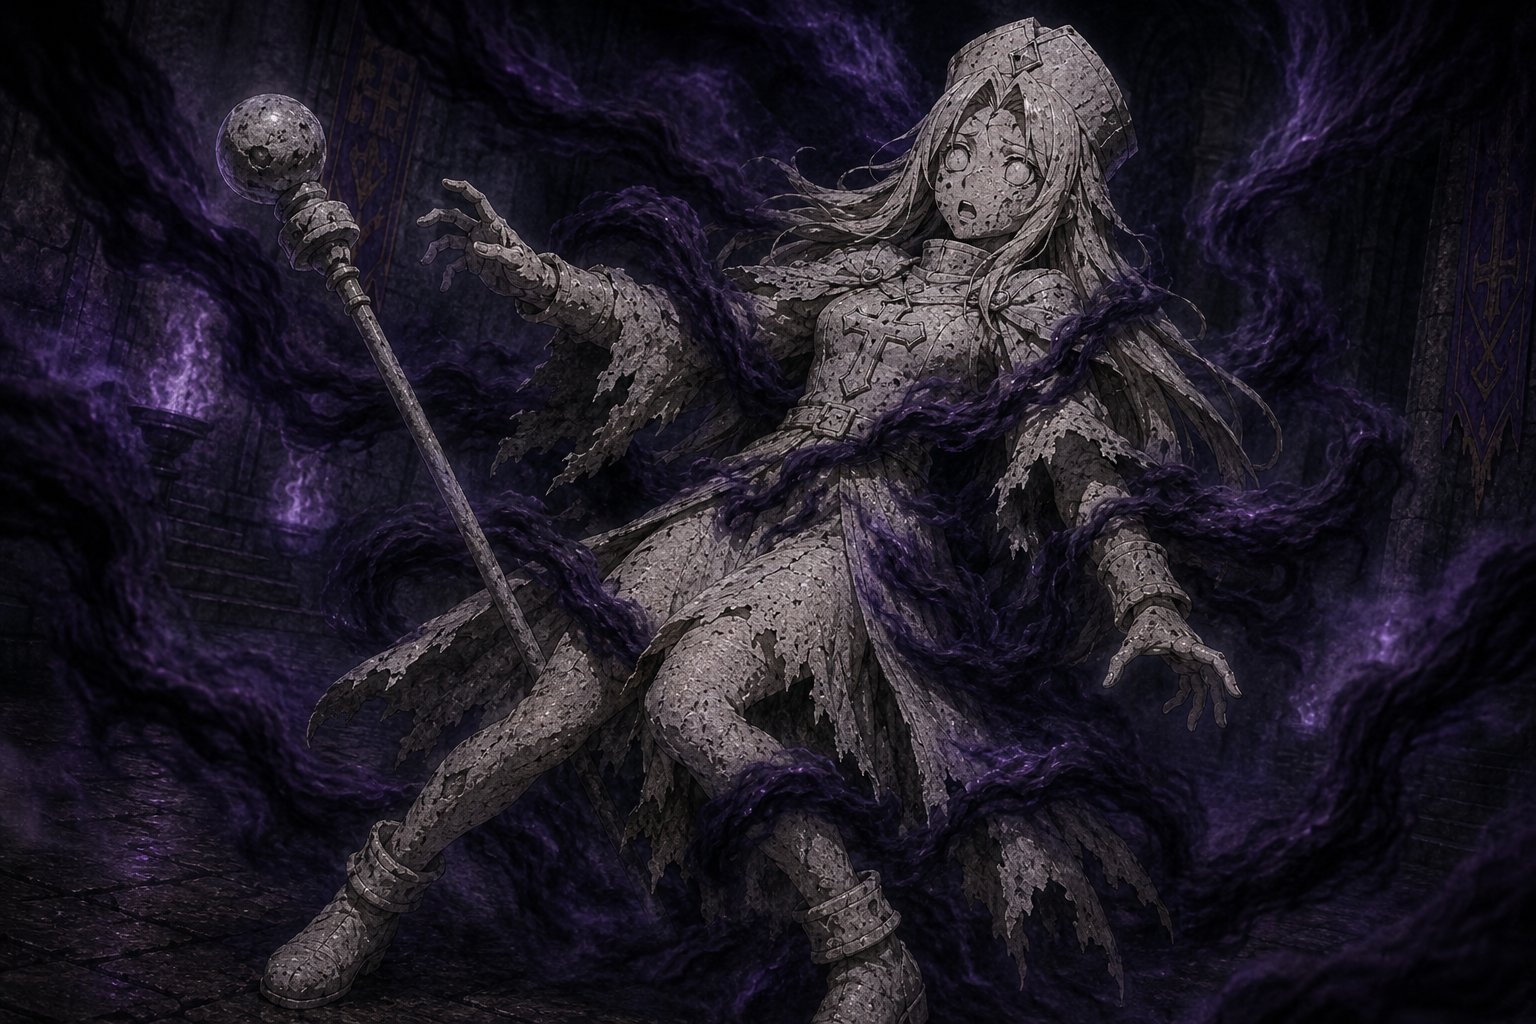
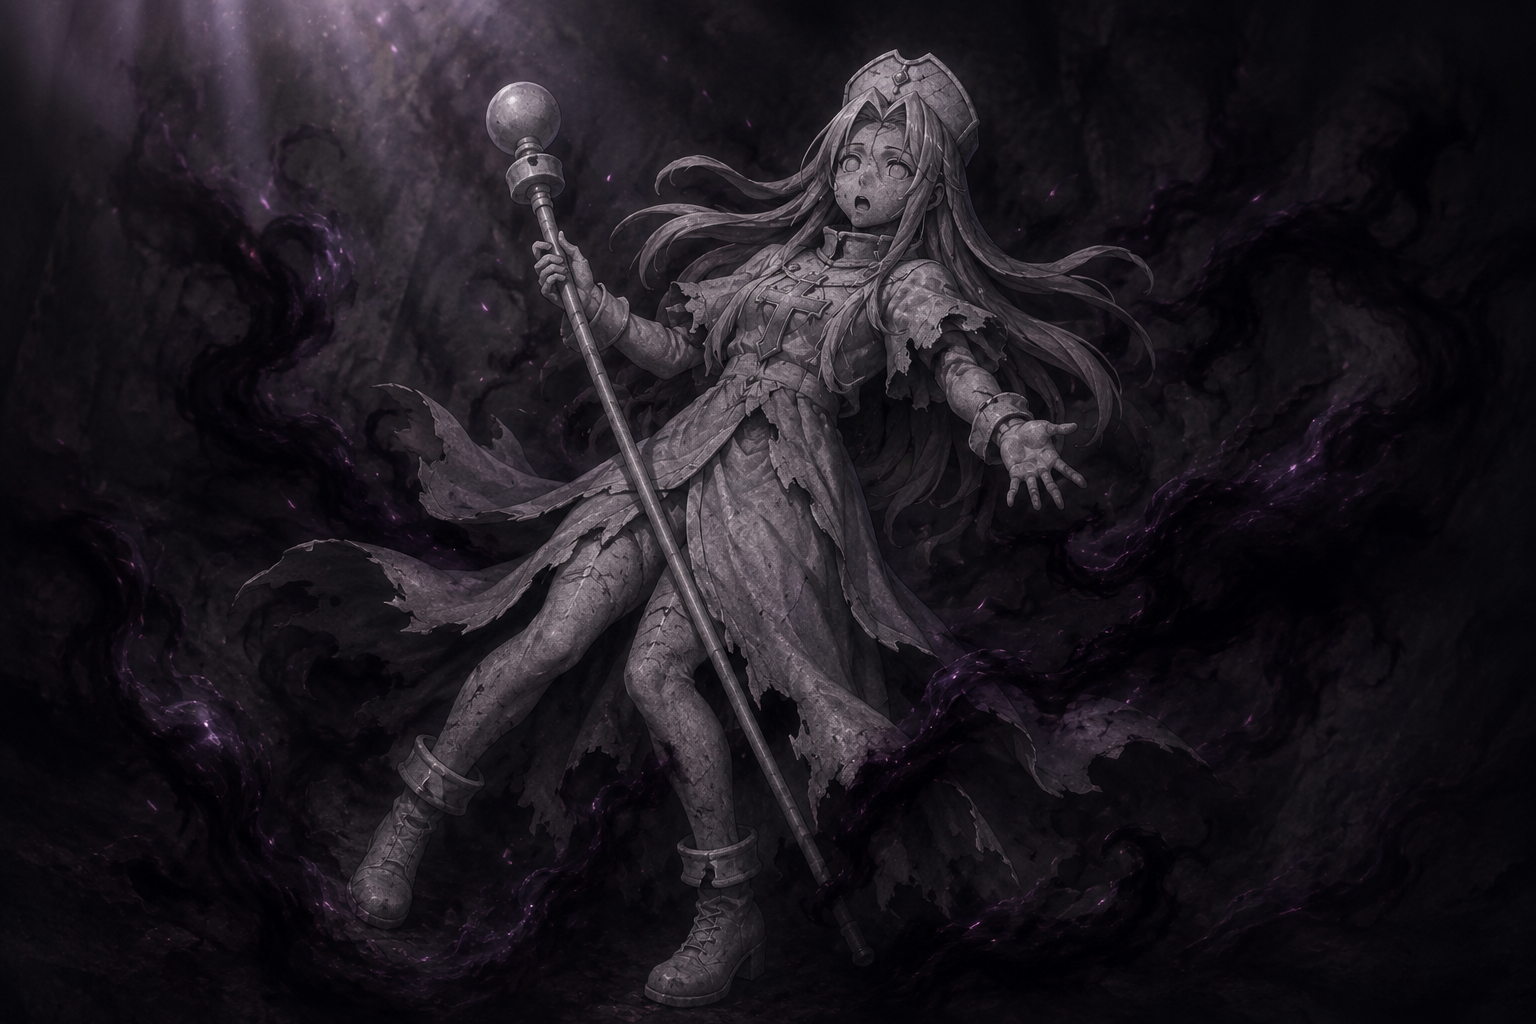
Tharja & Mint art; Obsidian Cap fix; dual-mode Mantle & Pact (#6)
* Mint and Tharja art update

* Fix Obsidian Cap; make Petrify Mantle and Stone Pact dual-mode

Obsidian Cap: hard cap now enforced inside gainPetrify() via
player.petrifyCap, so it applies to all sources at all times
(enemy attacks, status ticks, draw hooks) rather than only at
turn start.

Petrify Mantle: below threshold gains 5 Petrify + scaling Block;
at threshold reduces Petrify by 4 + scaling Block (higher min).

Stone Pact: below threshold gains 6 Petrify + draw 2;
at threshold reduces Petrify by 4 + draw 2. Upgrade draws 3 and
reduces 6 in both modes.

https://claude.ai/code/session_01LJKZFwQFkEriD7rfApoCh2

---------

diff --git a/src/data/cards.js b/src/data/cards.js
@@ -275,12 +275,28 @@ export const cardDefs = {
   },
   petrify_mantle: {
     id: 'petrify_mantle', name: 'Petrify Mantle', cost: 1, type: 'skill', targetType: 'none', rarity: 'common',
-    description: 'Gain 5 Petrify. Gain Block equal to Petrify ÷ 3 (min 5).',
-    shortDescription: 'Gain 5 Petrify. Gain Petrify÷3 Block (min 5).',
-    effect(state) { gainPetrify(state.player, 5); applyBlock(state.player, Math.max(5, Math.floor(state.player.petrify / 3))); },
-    upgrade: { name: 'Petrify Mantle+', description: 'Gain 5 Petrify. Gain Block equal to Petrify ÷ 2 (min 7).',
-      shortDescription: 'Gain 5 Petrify. Gain Petrify÷2 Block (min 7).',
-      effect(state) { gainPetrify(state.player, 5); applyBlock(state.player, Math.max(7, Math.floor(state.player.petrify / 2))); } },
+    description: 'If Petrify < 50% HP: gain 5 Petrify, gain Block = Petrify ÷ 3 (min 5). If Petrify ≥ 50% HP: reduce Petrify by 4, gain Block = Petrify ÷ 3 (min 8).',
+    shortDescription: 'Below threshold: +5 Petrify + Block. At threshold: −4 Petrify + Block.',
+    effect(state) {
+      if (state.player.petrify >= state.player.hp * 0.5) {
+        reducePetrify(state.player, 4);
+        applyBlock(state.player, Math.max(8, Math.floor(state.player.petrify / 3)));
+      } else {
+        gainPetrify(state.player, 5);
+        applyBlock(state.player, Math.max(5, Math.floor(state.player.petrify / 3)));
+      }
+    },
+    upgrade: { name: 'Petrify Mantle+', description: 'If Petrify < 50% HP: gain 5 Petrify, gain Block = Petrify ÷ 2 (min 7). If Petrify ≥ 50% HP: reduce Petrify by 6, gain Block = Petrify ÷ 2 (min 10).',
+      shortDescription: 'Below threshold: +5 Petrify + Block. At threshold: −6 Petrify + Block.',
+      effect(state) {
+        if (state.player.petrify >= state.player.hp * 0.5) {
+          reducePetrify(state.player, 6);
+          applyBlock(state.player, Math.max(10, Math.floor(state.player.petrify / 2)));
+        } else {
+          gainPetrify(state.player, 5);
+          applyBlock(state.player, Math.max(7, Math.floor(state.player.petrify / 2)));
+        }
+      } },
   },
   void_release: {
     id: 'void_release', name: 'Void Release', cost: 1, type: 'skill', targetType: 'enemy', rarity: 'common',
@@ -331,17 +347,25 @@ export const cardDefs = {
   },
   stone_pact: {
     id: 'stone_pact', name: 'Stone Pact', cost: 0, type: 'skill', targetType: 'none', rarity: 'uncommon',
-    description: 'Gain 6 Petrify. Draw 2 cards. If Petrify ≥ 50% HP, draw 1 additional.',
-    shortDescription: 'Gain 6 Petrify. Draw 2 (3 if at threshold).',
+    description: 'If Petrify < 50% HP: gain 6 Petrify, draw 2. If Petrify ≥ 50% HP: reduce Petrify by 4, draw 2.',
+    shortDescription: 'Below threshold: +6 Petrify + draw 2. At threshold: −4 Petrify + draw 2.',
     effect(state) {
-      gainPetrify(state.player, 6);
-      drawCards(state.combat.deckState, state.player.petrify >= state.player.hp * 0.5 ? 3 : 2, state);
-    },
-    upgrade: { name: 'Stone Pact+', description: 'Gain 6 Petrify. Draw 2 cards. If Petrify ≥ 50% HP, draw 2 additional.',
-      shortDescription: 'Gain 6 Petrify. Draw 2 (4 if at threshold).',
-      effect(state) {
+      if (state.player.petrify >= state.player.hp * 0.5) {
+        reducePetrify(state.player, 4);
+      } else {
         gainPetrify(state.player, 6);
-        drawCards(state.combat.deckState, state.player.petrify >= state.player.hp * 0.5 ? 4 : 2, state);
+      }
+      drawCards(state.combat.deckState, 2, state);
+    },
+    upgrade: { name: 'Stone Pact+', description: 'If Petrify < 50% HP: gain 6 Petrify, draw 3. If Petrify ≥ 50% HP: reduce Petrify by 6, draw 3.',
+      shortDescription: 'Below threshold: +6 Petrify + draw 3. At threshold: −6 Petrify + draw 3.',
+      effect(state) {
+        if (state.player.petrify >= state.player.hp * 0.5) {
+          reducePetrify(state.player, 6);
+        } else {
+          gainPetrify(state.player, 6);
+        }
+        drawCards(state.combat.deckState, 3, state);
       } },
   },
   stone_bastion: {

diff --git a/src/systems/Effects.js b/src/systems/Effects.js
@@ -38,6 +38,10 @@ export function gainPetrify(player, amount, source = null) {
     remaining -= absorbed;
   }
   player.petrify = (player.petrify || 0) + remaining;
+  // Hard cap enforced immediately (set by Obsidian Cap relic via player.petrifyCap)
+  if (player.petrifyCap !== undefined && player.petrify > player.petrifyCap) {
+    player.petrify = player.petrifyCap;
+  }
 }
 
 export function reducePetrify(player, amount) {

diff --git a/src/data/relics.js b/src/data/relics.js
@@ -46,9 +46,7 @@ export const relicDefs = {
     name: 'Obsidian Cap',
     description: 'Your Petrify cannot exceed 50.',
     hooks: {
-      onTurnStart(state) {
-        if (state.player.petrify > 50) state.player.petrify = 50;
-      },
+      onCombatStart(state) { state.player.petrifyCap = 50; },
     },
   },
   cracked_geode: {
